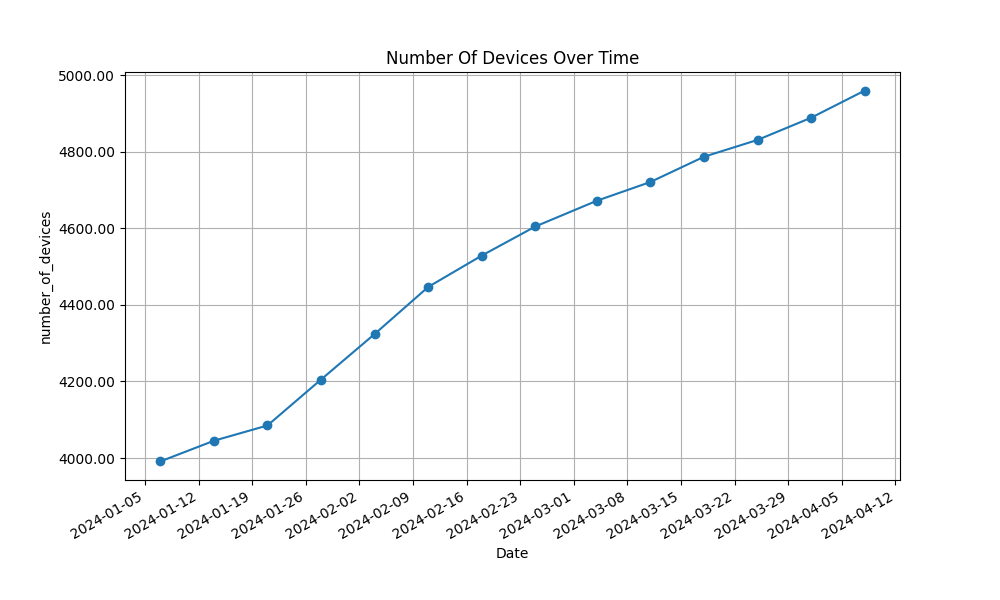
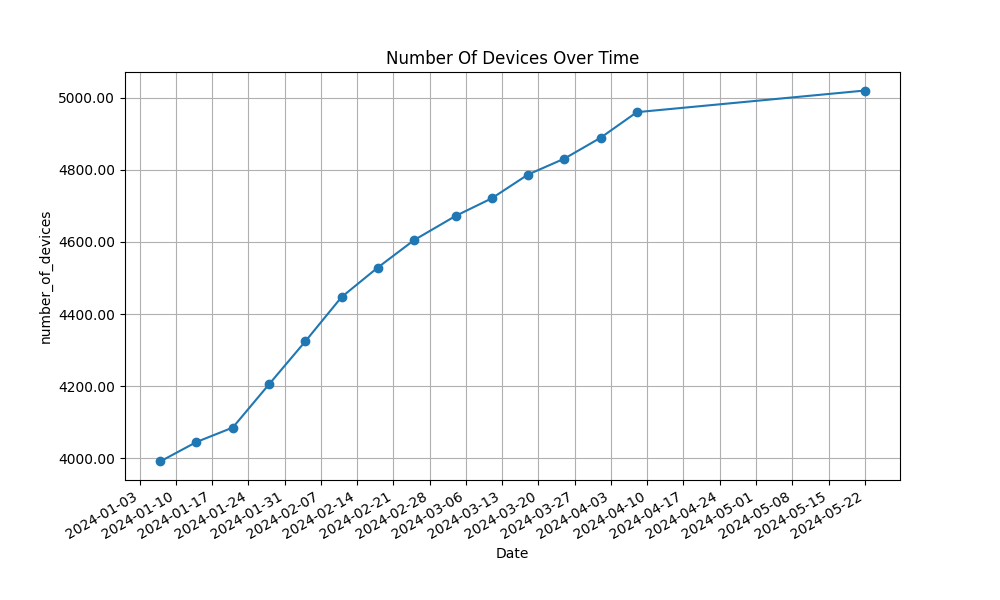
chore: weekly stats update

diff --git a/basin_wxm/config.py b/basin_wxm/config.py
@@ -1,11 +1,28 @@
 """Configs & command setup for query start time, end time, and verbose logging."""
 
-from argparse import ArgumentParser
+from argparse import ArgumentParser, ArgumentTypeError
+from datetime import datetime
 from json import load
+from time import mktime
 from typing import Tuple
 
 # Define global setting for verbose traceback logging
 log_traceback = True
+
+
+def parse_timestamp(timestamp: str) -> int:
+    """Parses a timestamp in either Unix or YYYY-MM-DD format."""
+    try:
+        if timestamp.isdigit():
+            return int(timestamp)
+        else:
+            dt = datetime.strptime(timestamp, "%Y-%m-%d")
+            unix_timestamp = int(mktime(dt.timetuple()))
+            return unix_timestamp
+    except ValueError as e:
+        raise ArgumentTypeError(
+            f"Invalid timestamp format: {timestamp}", e, ArgumentTypeError
+        )
 
 
 def command_setup() -> Tuple[int | None, int | None]:
@@ -24,15 +41,15 @@ def command_setup() -> Tuple[int | None, int | None]:
     parser = ArgumentParser(description="Fetch wxm vault data and run queries.")
     parser.add_argument(
         "--start",
-        type=int,
+        type=str,
         default=None,
-        help="Start unix timestamp for data range in (e.g., 1700438400)",
+        help="Start timestamp for data range in (unix or YYYY-MM-DD format)",
     )
     parser.add_argument(
         "--end",
-        type=int,
+        type=str,
         default=None,
-        help="End unix timestamp for data range in (e.g., 1700783999)",
+        help="End timestamp for data range in (unix or YYYY-MM-DD format)",
     )
     parser.add_argument(
         "--verbose",
@@ -44,7 +61,10 @@ def command_setup() -> Tuple[int | None, int | None]:
     # Parse the arguments for start and end time query ranges; also verbose logging
     # Default to `None` and let the queries use full range if no start/end
     args = parser.parse_args()
-    start, end, log_traceback = args.start, args.end, args.verbose
+    start_raw, end_raw, log_traceback = args.start, args.end, args.verbose
+    # If data in format YYYY-MM-DD, convert to unix timestamp
+    start = parse_timestamp(start_raw) if start_raw else None
+    end = parse_timestamp(end_raw) if end_raw else None
 
     return (start, end)
 

diff --git a/Data.md b/Data.md
@@ -1,6 +1,6 @@
 # Data
 
-_Generated on **2024-04-08** for data in range **2024-03-31 00:00:00** to **2024-04-06 23:59:44**._
+_Generated on **2024-05-22** for data in range **2024-04-07 00:00:00** to **2024-04-15 07:00:00**._
 
 The schema for the raw data is as follows:
 
@@ -41,11 +41,11 @@ And three additional columns for run metadata:
 
 | Job Date   | Range Start   | Range End     | Number Of Devices | Cell Id Mode    | Total Precipitation | Temperature | Humidity | Precipitation Accumulated |
 |------------|---------------|---------------|-------------------|-----------------|---------------------|-------------|----------|---------------------------|
-| 2024-04-08 | 1711843200000 | 1712447984000 | 4960              | 871eda743ffffff | 140907800093.172    | 13.618      | 72.380   | 1177.486                  |
+| 2024-05-22 | 1712448000000 | 1713164400000 | 5020              | 871eda743ffffff | 143320857919.118    | 15.641      | 67.683   | 1002.887                  |
 
 | Wind Speed | Wind Gust | Wind Direction | Illuminance | Solar Irradiance | Fo Uv   | Uv Index | Precipitation Rate | Pressure |
 |------------|-----------|----------------|-------------|------------------|---------|----------|--------------------|----------|
-| 1.011      | 1.398     | 185.450        | 339687.419  | 2675.406         | 705.567 | 0.885    | 0.093              | 986.163  |
+| 0.957      | 1.342     | 185.869        | 341424.430  | 2688.661         | 832.969 | 1.049    | 0.054              | 993.208  |
 
 ## Precipitation accumulated maps
 
@@ -57,21 +57,21 @@ And three additional columns for run metadata:
 
 ![South America](./assets/maps/precipitation_map_south_america.png)
 
-### Asia
-
-![Asia](./assets/maps/precipitation_map_asia.png)
-
 ### Africa
 
 ![Africa](./assets/maps/precipitation_map_africa.png)
 
-### Australia
-
-![Australia](./assets/maps/precipitation_map_australia.png)
-
 ### Europe
 
 ![Europe](./assets/maps/precipitation_map_europe.png)
+
+### Asia
+
+![Asia](./assets/maps/precipitation_map_asia.png)
+
+### Australia
+
+![Australia](./assets/maps/precipitation_map_australia.png)
 
 ## Historical plots
 

diff --git a/README.md b/README.md
@@ -84,10 +84,10 @@ To use default time ranges (the full dataset), run:
 make run
 ```
 
-Or, you can define a custom time range with `start` and `end` arguments (Unix epoch timestamps), which will be used to filter the data when queries are executed. Note: the timestamp range for the `wxm.weather_data_dev` vault starts on `1707436800`.
+Or, you can define a custom time range with `start` and `end` arguments (Unix epoch timestamps _or_ YYYY-MM-DD), which will be used to filter the data when queries are executed. Note: the timestamp range for the `wxm.weather_data_dev` vault starts on `1707436800`.
 
 ```sh
-make run start=1707436800 end=1707955200
+make run start=1707436800 end=2024-02-15
 ```
 
 This range also defines which events/data is fetched; the `cache.json` file will store all previously extracted events, so only new events will be fetched on subsequent runs.
@@ -135,4 +135,4 @@ Small note: If editing the README, please conform to the standard-readme specifi
 
 ## License
 
-MIT AND Apache-2.0, © 2021-2023 Textile Contributors
+MIT AND Apache-2.0, © 2021-2024 Textile Contributors
